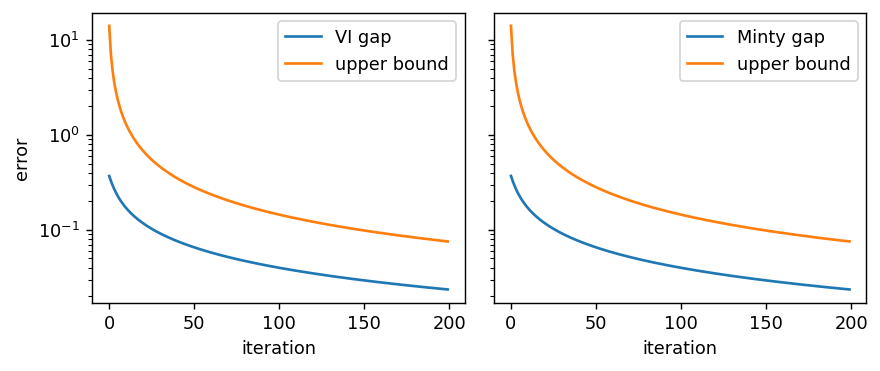
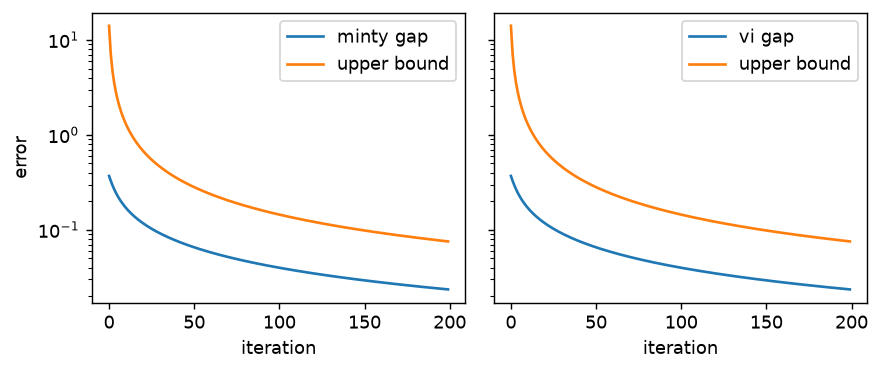
Synchronize scripts and figures with manuscript

diff --git a/arctangent.py b/arctangent.py
@@ -32,8 +32,9 @@ os.makedirs(OUTDIR, exist_ok=True)
 # Parameters
 # --------------------------------------------------------------------------- #
 LAM = 0.49        # step size; step-size condition here is 0 < lambda < 1/2
-K = 200           # number of iterations
-SNAPSHOTS = [2, 10, 50]
+K_MEASURE = 1000  # horizon for the averaged-measure figure
+K_GAP = 200       # horizon for the gap figure
+SNAPSHOTS = [5, 50, 1000]
 MESHES = [8, 1001]  # M=8 for the measure plot, M=1001 for the gap plot
 
 
@@ -89,8 +90,9 @@ def ergodic_average(nu_history):
 def plot_averaged_measure(grid, nu_bar, path):
     fig, ax = plt.subplots(ncols=3, figsize=(8, 3), sharey=True, dpi=128)
     for panel, k in zip(ax, SNAPSHOTS):
-        panel.scatter(grid, nu_bar[k])
-        panel.vlines(grid, ymin=0, ymax=nu_bar[k])
+        # Row k-1 is the average over exactly k predictors.
+        panel.scatter(grid, nu_bar[k - 1])
+        panel.vlines(grid, ymin=0, ymax=nu_bar[k - 1])
         panel.scatter(x=-0.5, y=1, color="C1", label="MFE")
         panel.vlines(x=-0.5, ymin=0, ymax=1, color="C1", ls="--")
         panel.set_title(f"{k} iterations")
@@ -120,15 +122,14 @@ def plot_gaps(grid, nu_bar, lam, path):
 
     fig, ax = plt.subplots(ncols=2, figsize=(7, 3), dpi=128, sharey=True)
     # The two gaps coincide analytically for this example, so both panels
-    # show the same computed curve (labels follow the paper caption:
-    # VI gap on the left, Minty gap on the right).
-    ax[0].plot(gap, label="VI gap")
+    # show the same computed curve. Their placement follows the paper caption.
+    ax[0].plot(gap, label="minty gap")
     ax[0].plot(bound, label="upper bound")
     ax[0].set_yscale("log")
     ax[0].set_xlabel("iteration")
     ax[0].set_ylabel("error")
     ax[0].legend()
-    ax[1].plot(gap, label="Minty gap")
+    ax[1].plot(gap, label="vi gap")
     ax[1].plot(bound, label="upper bound")
     ax[1].set_xlabel("iteration")
     ax[1].legend()
@@ -140,12 +141,15 @@ def plot_gaps(grid, nu_bar, lam, path):
 def main():
     for M in MESHES:
         grid = np.linspace(-1.0, 1.0, M)
-        nu_bar = ergodic_average(run_kl_mirror_prox(grid, LAM, K))
         if M == 8:
+            nu_bar = ergodic_average(
+                run_kl_mirror_prox(grid, LAM, K_MEASURE)
+            )
             plot_averaged_measure(
                 grid, nu_bar, os.path.join(OUTDIR, "arctangent_averaged_nu_8.png")
             )
         else:
+            nu_bar = ergodic_average(run_kl_mirror_prox(grid, LAM, K_GAP))
             plot_gaps(
                 grid, nu_bar, LAM, os.path.join(OUTDIR, "arctangent_vi_gap.png")
             )

diff --git a/double_well.py b/double_well.py
@@ -85,8 +85,9 @@ def ergodic_average(nu_history):
 def plot_averaged_measure(grid, nu_bar, path):
     fig, ax = plt.subplots(ncols=3, figsize=(8, 3), sharey=True, dpi=128)
     for panel, k in zip(ax, SNAPSHOTS):
-        panel.scatter(grid, nu_bar[k])
-        panel.vlines(grid, ymin=0, ymax=nu_bar[k])
+        # Row k-1 is the average over exactly k predictors.
+        panel.scatter(grid, nu_bar[k - 1])
+        panel.vlines(grid, ymin=0, ymax=nu_bar[k - 1])
         panel.scatter(x=[-1, 1], y=[0.5, 0.5], color="C1", label="MFE")
         panel.vlines(x=[-1, 1], ymin=[0, 0], ymax=[0.5, 0.5], color="C1", ls="--")
         panel.set_title(f"{k} iterations")

diff --git a/README.md b/README.md
@@ -9,6 +9,8 @@ Equilibria*.
 Each script implements the finite-dimensional KL Mirror-Prox iteration
 (exponential-tilt prediction and correction steps, both centered at the current
 iterate) on an equispaced mesh, and regenerates the figures for one example.
+The arctangent gap plot uses `M=1001`, and the double-well plots use
+`alpha=0.5` and `lambda=0.24`, matching the manuscript.
 
 ## Contents
 
